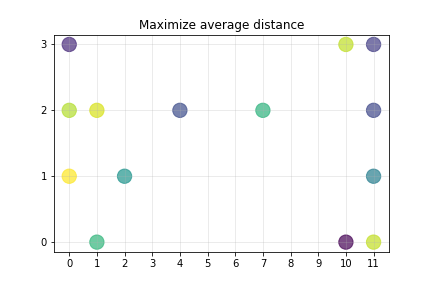
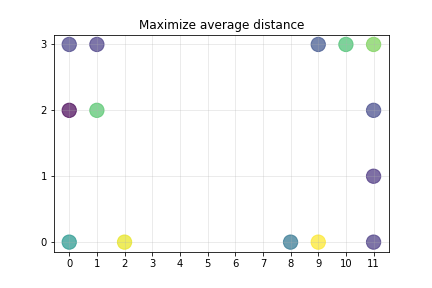
Add files via upload

diff --git a/SeatingPlan.py b/SeatingPlan.py
@@ -25,6 +25,7 @@ from scipy.spatial import distance
 
 mindist = 0 ## a random small number
 sumdist = 0 ## a random small number
+minsumdist = 0 ## a random small number
 
 ### total number of combinations we need to run
 from math import factorial
@@ -57,18 +58,22 @@ for combs in allcombs: #combination of nseats
         opoints.remove(coord) ## otherpoints for distance
         dists.extend([distance.euclidean(coord, opoint) for opoint in opoints])
         
-    if min(dists) > mindist: ## maximize the minimum distance
+    if min(dists) > mindist or (min(dists) == mindist and sum(dists) > minsumdist): ## maximize the minimum distance, also reduce average distance for minimum
         mindistcomb = combs
         mindist = min(dists)
+        minsumdist = sum(dists)
+        print("min and avg distance", mindist, minsumdist)
         
     if sum(dists) > sumdist: ## maximize the sum of distance
         sumdistcomb = combs
         sumdist = sum(dists)
         
         
+        
 ## print best results
 print("Combination that maximize minimum distance: ", mindistcomb)
 print(".. with minimum distance: ", mindist)
+print(".. and average distance: ", minsumdist)
 print("\n")
 print("Combination that maximize average distance: ", sumdistcomb)
 print(".. with average distance: ", sumdist/nseats)
